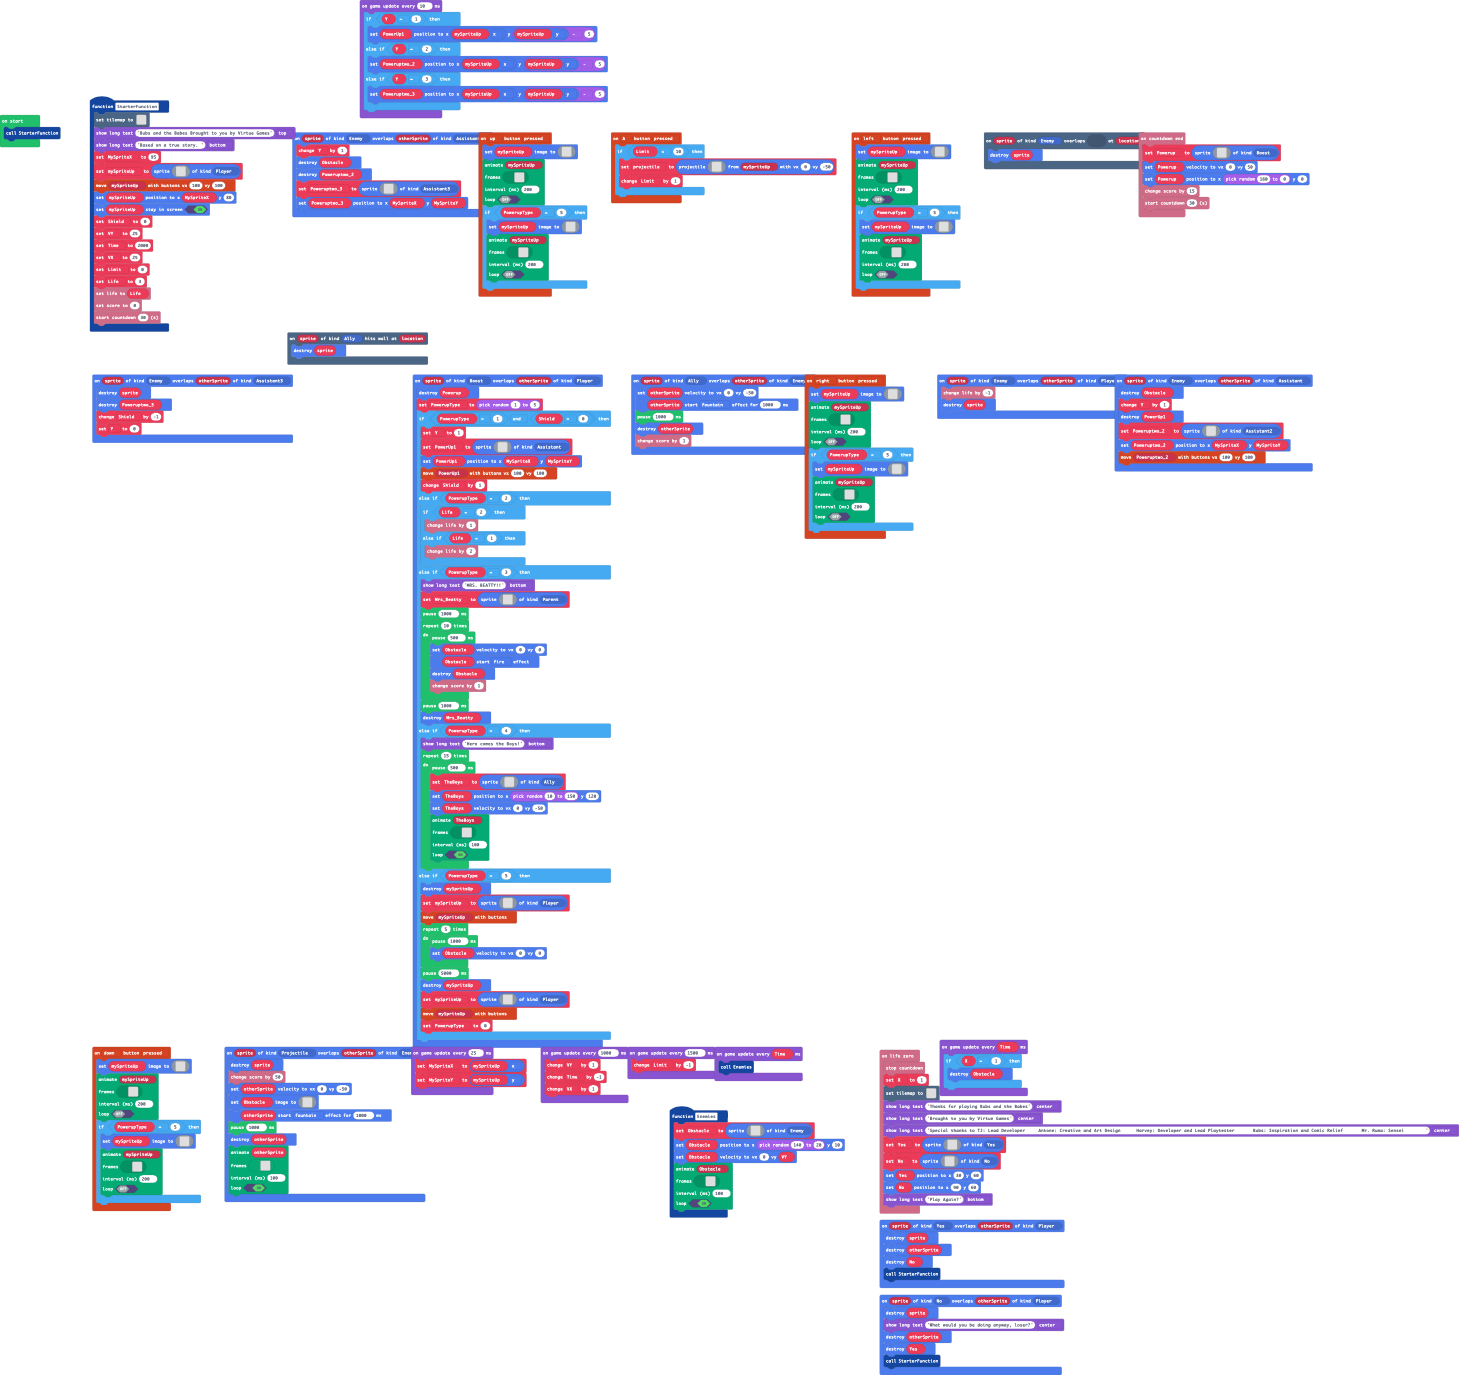
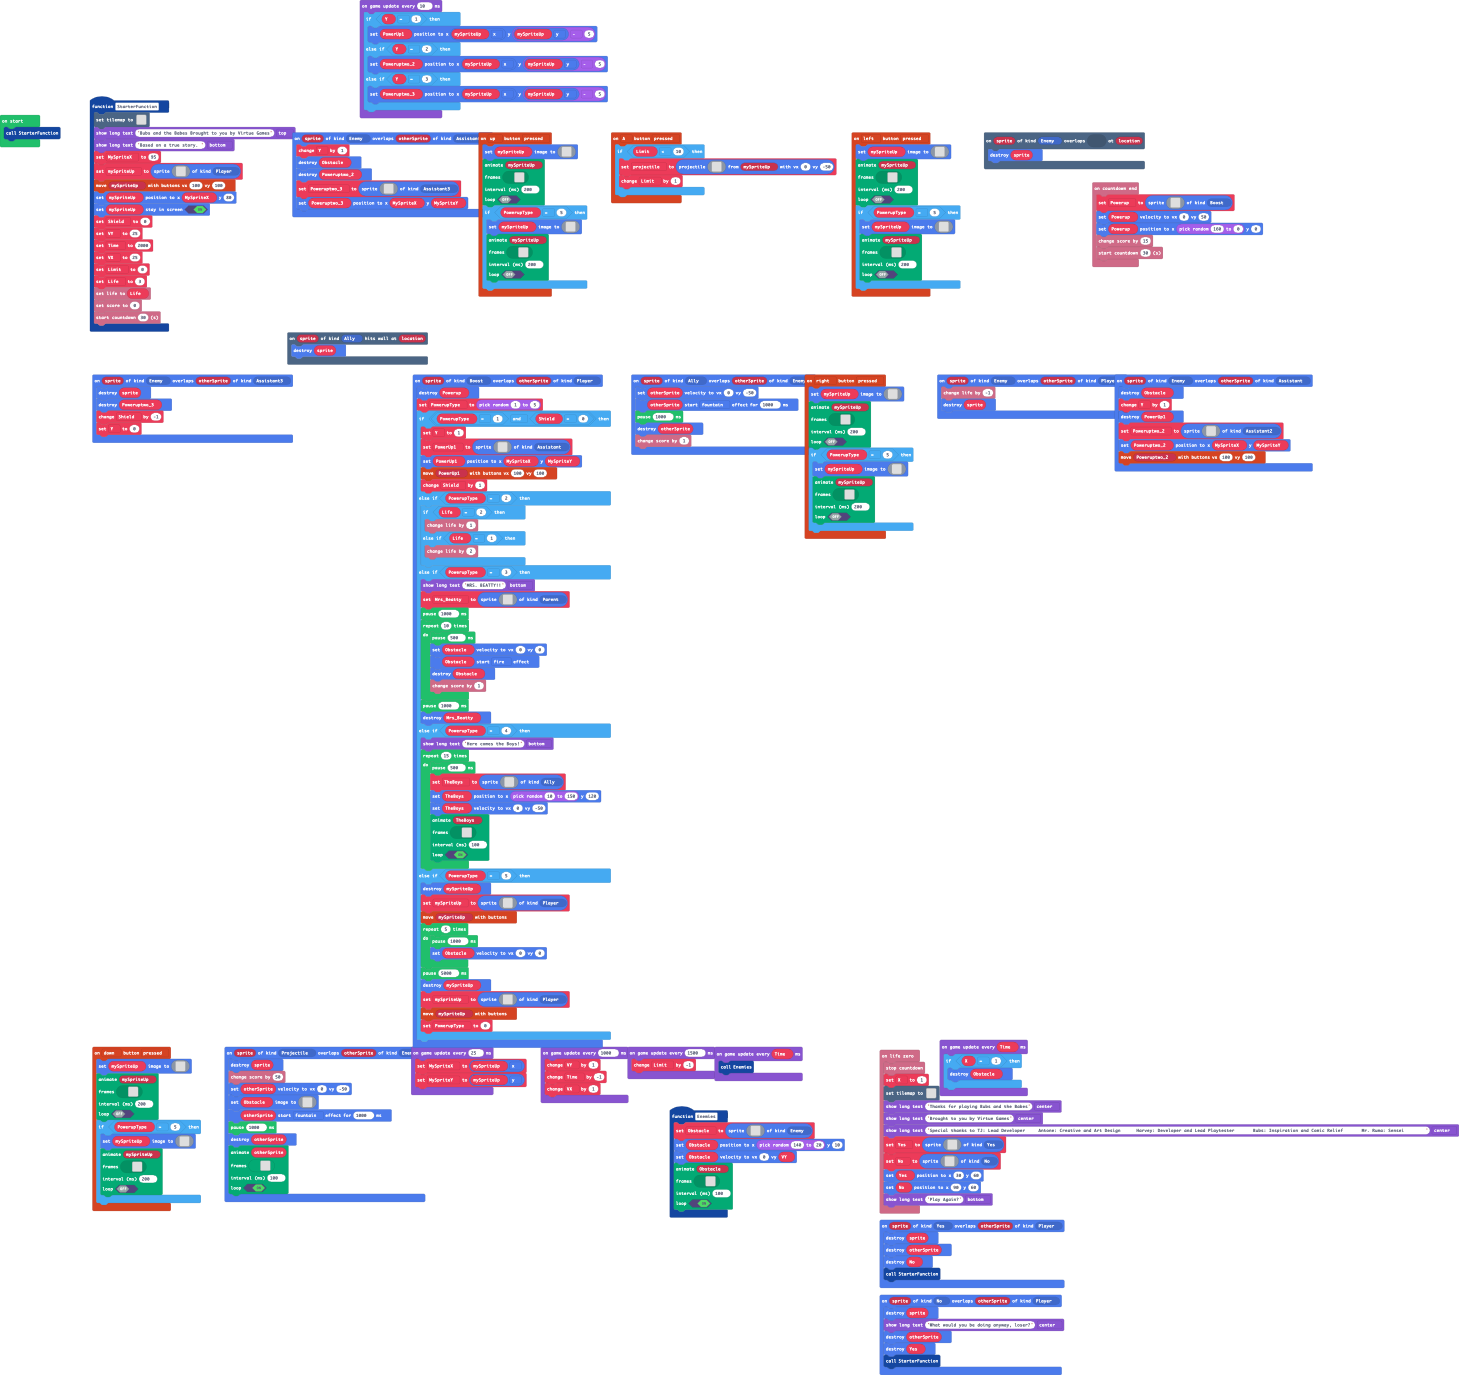
Update pxt.json, images.g.jres, images.g.ts, main.blocks, main.ts

Changed region(s): [[0.7188, 0.0916, 0.9062, 0.2138]]

diff --git a/images.g.ts b/images.g.ts
@@ -233,24 +233,6 @@ f a a f f f d d d d f f f a a f
 .......................
 .......................
 `;
-            case "image56":return img`
-. . . . . f f f f . . . . . 
-. . . f f 5 5 5 5 f f . . . 
-. . f 5 5 5 5 5 5 5 5 f . . 
-. f 5 5 5 5 5 5 5 5 5 5 f . 
-. f 5 5 5 d b b d 5 5 5 f . 
-f 5 5 5 b 4 4 4 4 b 5 5 5 f 
-f 5 5 c c 4 4 4 4 c c 5 5 f 
-f b b f b f 4 4 f b f b b f 
-f b b 4 1 f d d f 1 4 b b f 
-. f b f d d d d d d f b f . 
-. f e f e 4 4 4 4 e f e f . 
-. e 4 f 6 9 9 9 9 6 f 4 e . 
-. 4 d c 9 9 9 9 9 9 c d 4 . 
-. 4 f b 3 b 3 b 3 b b f 4 . 
-. . f f 3 b 3 b 3 3 f f . . 
-. . . . f f b b f f . . . . 
-`;
             case "image57":return img`
 ........................
 ........................
@@ -420,6 +402,24 @@ f 8 8 8 8 8 8 8 8 8 8 8 8 f . .
 . 4 4 d 8 8 8 8 8 8 d 4 4 . . . 
 . . . . d 8 8 8 8 d . . . . . . 
 . . . . d d . . d d . . . . . . 
+`;
+            case "image56":return img`
+. . . . . f f f f . . . . . 
+. . . f f e e e e f f . . . 
+. . f e e e e e e e e f . . 
+. f e e e e e e e e e e f . 
+. f e e e d b b d e e e f . 
+f e e e b 4 4 4 4 b e e e f 
+f e e c c 4 4 4 4 c c e e f 
+f b b f b f 4 4 f b f b b f 
+f b b 4 1 f d d f 1 4 b b f 
+. f b f d d d d d d f b f . 
+. f e f e 4 4 4 4 e f e f . 
+. e 4 f 6 9 9 9 9 6 f 4 e . 
+. 4 d c 9 9 9 9 9 9 c d 4 . 
+. 4 f b 3 b 3 b 3 b b f 4 . 
+. . f f 3 b 3 b 3 3 f f . . 
+. . . . f f b b f f . . . . 
 `;
         }
         return null;
@@ -2287,75 +2287,6 @@ f b b b b b b b b b b b b b b f
 . . . f e e d 1 d 1 1 f f . . . 
 . . . . . f f f b b f . . . . . 
 `];
-            case "anim51":return [img`
-. . . . f f f f f f . . . . . . 
-. . . f 8 8 8 8 8 8 f f . . . . 
-. . f 8 8 2 8 8 8 2 8 f f . . . 
-. . f 8 8 8 2 8 2 8 8 8 f . . . 
-. f 8 8 8 8 8 2 8 8 8 8 f . . . 
-. f 8 8 8 8 8 8 8 8 8 8 f . . . 
-. f f 5 5 5 5 5 5 5 5 f f f . . 
-. f 5 5 4 4 f b e 4 4 5 f f . . 
-. . f 5 d d f 1 4 d 4 5 5 f . . 
-. . . f d d d d 4 e e e f . . . 
-. . . f 2 2 2 2 2 2 2 f . . . . 
-. . . f d d d e d d 4 . . . . . 
-. . . f d d d e d d e . . . . . 
-. . . f d 8 8 8 e e f . . . . . 
-. . . . f f 8 8 8 f . . . . . . 
-. . . . . . f f f . . . . . . . 
-`, img`
-. . . . . . . . . . . . . . . . 
-. . . . f f f f f f . . . . . . 
-. . . f 8 8 8 8 8 8 f f . . . . 
-. . f 8 8 2 8 8 8 2 8 f f . . . 
-. . f 8 8 8 2 8 2 8 8 8 f . . . 
-. f 8 8 8 8 8 2 8 8 8 8 f . . . 
-. f 8 8 8 8 8 8 8 8 8 8 f . . . 
-. f f 5 5 5 5 5 5 5 5 f f f . . 
-. f 5 5 4 4 f b e 4 4 5 f f . . 
-. . f 5 d d f 1 4 d 4 5 5 f . . 
-. . . f d d d e e e e e f . . . 
-. . . f 2 2 e d d 4 f . . . . . 
-. . . f d d e d d e f . . . . . 
-. . f f d 8 8 e e 8 f f . . . . 
-. . f f f f 8 8 8 f f f . . . . 
-. . . f f f . . . f f . . . . . 
-`, img`
-. . . . f f f f f f . . . . . . 
-. . . f 8 8 8 8 8 8 f f . . . . 
-. . f 8 8 8 8 8 8 8 8 f f . . . 
-. . f 8 8 8 8 8 8 8 8 8 f . . . 
-. f 8 8 8 8 8 8 8 8 8 8 f . . . 
-. f 8 8 8 8 8 8 8 8 8 8 f . . . 
-. f f 5 5 5 5 5 5 5 5 f f f . . 
-. f 5 5 4 4 f b e 4 4 5 f f . . 
-. . f 5 d d f 1 4 d 4 5 5 f . . 
-. . . f d d d d 4 e e e f . . . 
-. . . f 2 2 2 2 2 2 2 f . . . . 
-. . . f d d d e d d 4 . . . . . 
-. . . f d d d e d d e . . . . . 
-. . . f d 8 8 8 e e f . . . . . 
-. . . . f f 8 8 8 f . . . . . . 
-. . . . . . f f f . . . . . . . 
-`, img`
-. . . . . . . . . . . . . . . . 
-. . . . f f f f f f . . . . . . 
-. . . f 8 8 8 8 8 8 f f . . . . 
-. . f 8 8 2 8 8 8 2 8 f f . . . 
-. . f 8 8 8 2 8 2 8 8 8 f . . . 
-. f 8 8 8 8 8 2 8 8 8 8 f . . . 
-. f 8 8 8 8 8 8 8 8 8 8 f . . . 
-. f f 5 5 5 5 5 5 5 5 f f f . . 
-. f 5 5 4 4 f b e 4 4 5 f f . . 
-. . f 5 d d f 1 4 d 4 5 5 f . . 
-. . . f d d d d 4 e e e f . . . 
-. . . f 2 2 2 2 e d d 4 . . . . 
-. . . f d d d d e d d e . . . . 
-. . f f d 8 8 8 8 e e f . . . . 
-. . f f f f 8 8 8 f f f . . . . 
-. . . f f f . . . f f . . . . . 
-`];
             case "anim52":return [img`
 . . . . . . f f f f f f . . . . 
 . . . . f f 8 8 8 8 8 8 f . . . 
@@ -2493,6 +2424,75 @@ f b b b b b b b b b b b b b b f
 . . 4 d d e 8 8 8 8 8 8 4 . . . 
 . . . 4 e e d 8 8 8 8 d e . . . 
 . . . . . . . . . d d d . . . . 
+`];
+            case "anim51":return [img`
+. . . . f f f f f f . . . . . . 
+. . . f 8 8 8 8 8 8 f f . . . . 
+. . f 8 8 2 8 8 8 2 8 f f . . . 
+. . f 8 8 8 2 8 2 8 8 8 f . . . 
+. f 8 8 8 8 8 2 8 8 8 8 f . . . 
+. f 8 8 8 8 8 8 8 8 8 8 f . . . 
+. f f 5 5 5 5 5 5 5 5 f f f . . 
+. f 5 5 4 4 f b e 4 4 5 f f . . 
+. . f 5 d d f 1 4 d 4 5 5 f . . 
+. . . f d d d d 4 e e e f . . . 
+. . . f 2 2 2 2 2 2 2 f . . . . 
+. . . f d d d e d d 4 . . . . . 
+. . . f d d d e d d e . . . . . 
+. . . f d 8 8 8 e e f . . . . . 
+. . . . f f 8 8 8 f . . . . . . 
+. . . . . . f f f . . . . . . . 
+`, img`
+. . . . . . . . . . . . . . . . 
+. . . . f f f f f f . . . . . . 
+. . . f 8 8 8 8 8 8 f f . . . . 
+. . f 8 8 2 8 8 8 2 8 f f . . . 
+. . f 8 8 8 2 8 2 8 8 8 f . . . 
+. f 8 8 8 8 8 2 8 8 8 8 f . . . 
+. f 8 8 8 8 8 8 8 8 8 8 f . . . 
+. f f 5 5 5 5 5 5 5 5 f f f . . 
+. f 5 5 4 4 f b e 4 4 5 f f . . 
+. . f 5 d d f 1 4 d 4 5 5 f . . 
+. . . f d d d e e e e e f . . . 
+. . . f 2 2 e d d 4 f . . . . . 
+. . . f d d e d d e f . . . . . 
+. . f f d 8 8 e e 8 f f . . . . 
+. . f f f f 8 8 8 f f f . . . . 
+. . . f f f . . . f f . . . . . 
+`, img`
+. . . . f f f f f f . . . . . . 
+. . . f 8 8 8 8 8 8 f f . . . . 
+. . f 8 8 2 8 8 8 2 8 f f . . . 
+. . f 8 8 8 2 8 2 8 8 8 f . . . 
+. f 8 8 8 8 8 2 8 8 8 8 f . . . 
+. f 8 8 8 8 8 8 8 8 8 8 f . . . 
+. f f 5 5 5 5 5 5 5 5 f f f . . 
+. f 5 5 4 4 f b e 4 4 5 f f . . 
+. . f 5 d d f 1 4 d 4 5 5 f . . 
+. . . f d d d d 4 e e e f . . . 
+. . . f 2 2 2 2 2 2 2 f . . . . 
+. . . f d d d e d d 4 . . . . . 
+. . . f d d d e d d e . . . . . 
+. . . f d 8 8 8 e e f . . . . . 
+. . . . f f 8 8 8 f . . . . . . 
+. . . . . . f f f . . . . . . . 
+`, img`
+. . . . . . . . . . . . . . . . 
+. . . . f f f f f f . . . . . . 
+. . . f 8 8 8 8 8 8 f f . . . . 
+. . f 8 8 2 8 8 8 2 8 f f . . . 
+. . f 8 8 8 2 8 2 8 8 8 f . . . 
+. f 8 8 8 8 8 2 8 8 8 8 f . . . 
+. f 8 8 8 8 8 8 8 8 8 8 f . . . 
+. f f 5 5 5 5 5 5 5 5 f f f . . 
+. f 5 5 4 4 f b e 4 4 5 f f . . 
+. . f 5 d d f 1 4 d 4 5 5 f . . 
+. . . f d d d d 4 e e e f . . . 
+. . . f 2 2 2 2 e d d 4 . . . . 
+. . . f d d d d e d d e . . . . 
+. . f f d 8 8 8 8 e e f . . . . 
+. . f f f f 8 8 8 f f f . . . . 
+. . . f f f . . . f f . . . . . 
 `];
         }
         return null;

diff --git a/main.ts b/main.ts
@@ -504,9 +504,9 @@ controller.left.onEvent(ControllerButtonEvent.Pressed, function () {
             `,img`
             . . . . f f f f f f . . . . . . 
             . . . f 8 8 8 8 8 8 f f . . . . 
-            . . f 8 8 8 8 8 8 8 8 f f . . . 
-            . . f 8 8 8 8 8 8 8 8 8 f . . . 
-            . f 8 8 8 8 8 8 8 8 8 8 f . . . 
+            . . f 8 8 2 8 8 8 2 8 f f . . . 
+            . . f 8 8 8 2 8 2 8 8 8 f . . . 
+            . f 8 8 8 8 8 2 8 8 8 8 f . . . 
             . f 8 8 8 8 8 8 8 8 8 8 f . . . 
             . f f 5 5 5 5 5 5 5 5 f f f . . 
             . f 5 5 4 4 f b e 4 4 5 f f . . 
@@ -665,12 +665,12 @@ sprites.onOverlap(SpriteKind.Boost, SpriteKind.Player, function (sprite, otherSp
         game.showLongText("MRS. BEATTY!!", DialogLayout.Bottom)
         Mrs_Beatty = sprites.create(img`
             . . . . . f f f f . . . . . 
-            . . . f f 5 5 5 5 f f . . . 
-            . . f 5 5 5 5 5 5 5 5 f . . 
-            . f 5 5 5 5 5 5 5 5 5 5 f . 
-            . f 5 5 5 d b b d 5 5 5 f . 
-            f 5 5 5 b 4 4 4 4 b 5 5 5 f 
-            f 5 5 c c 4 4 4 4 c c 5 5 f 
+            . . . f f e e e e f f . . . 
+            . . f e e e e e e e e f . . 
+            . f e e e e e e e e e e f . 
+            . f e e e d b b d e e e f . 
+            f e e e b 4 4 4 4 b e e e f 
+            f e e c c 4 4 4 4 c c e e f 
             f b b f b f 4 4 f b f b b f 
             f b b 4 1 f d d f 1 4 b b f 
             . f b f d d d d d d f b f . 
